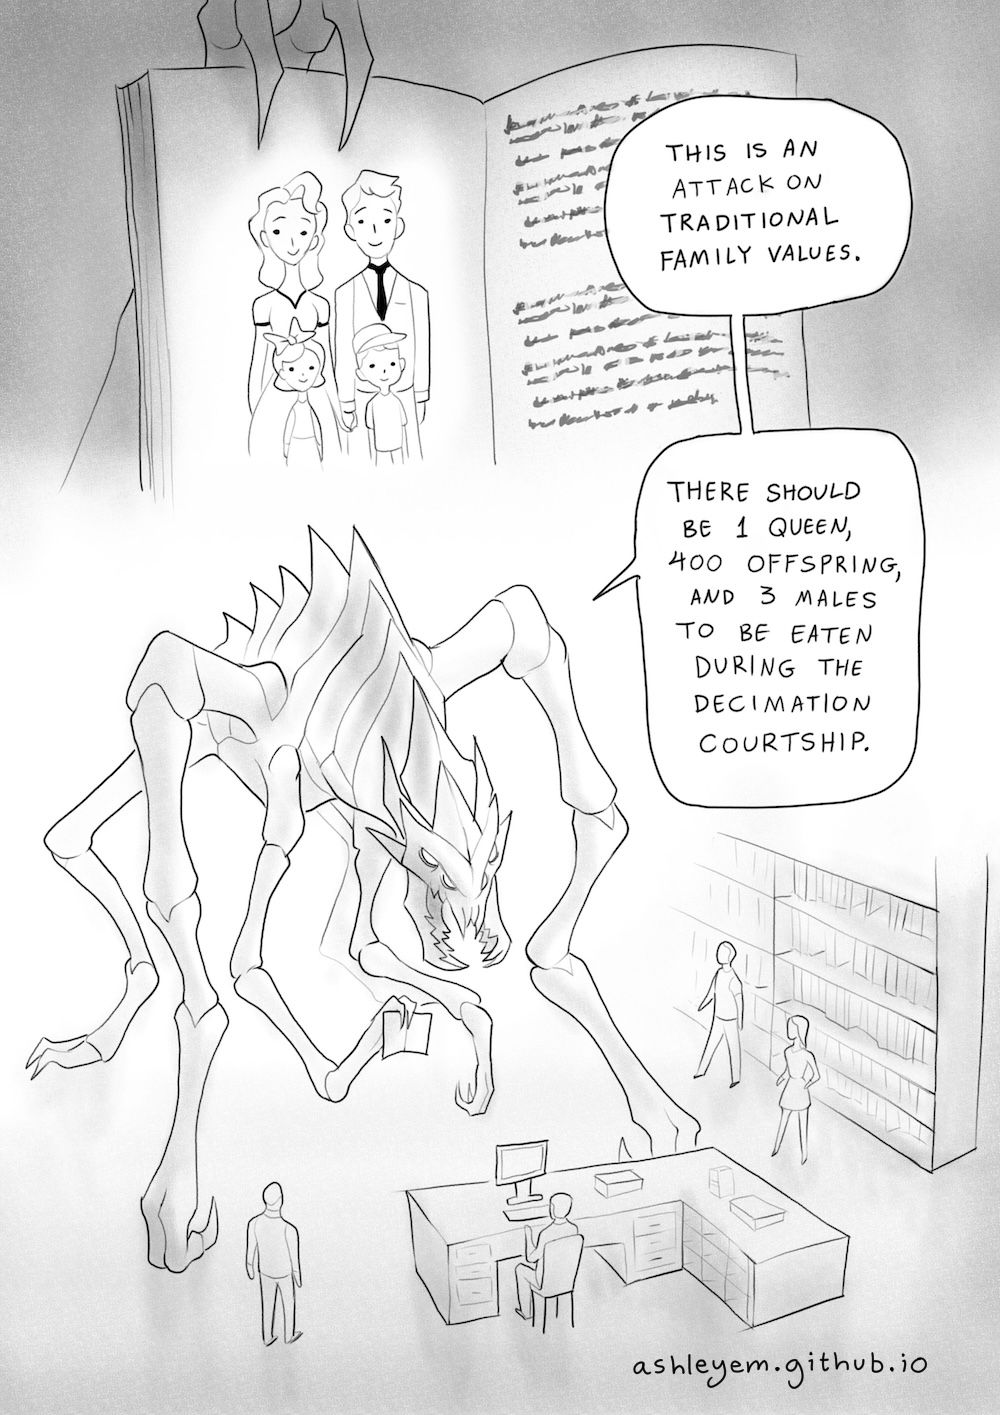
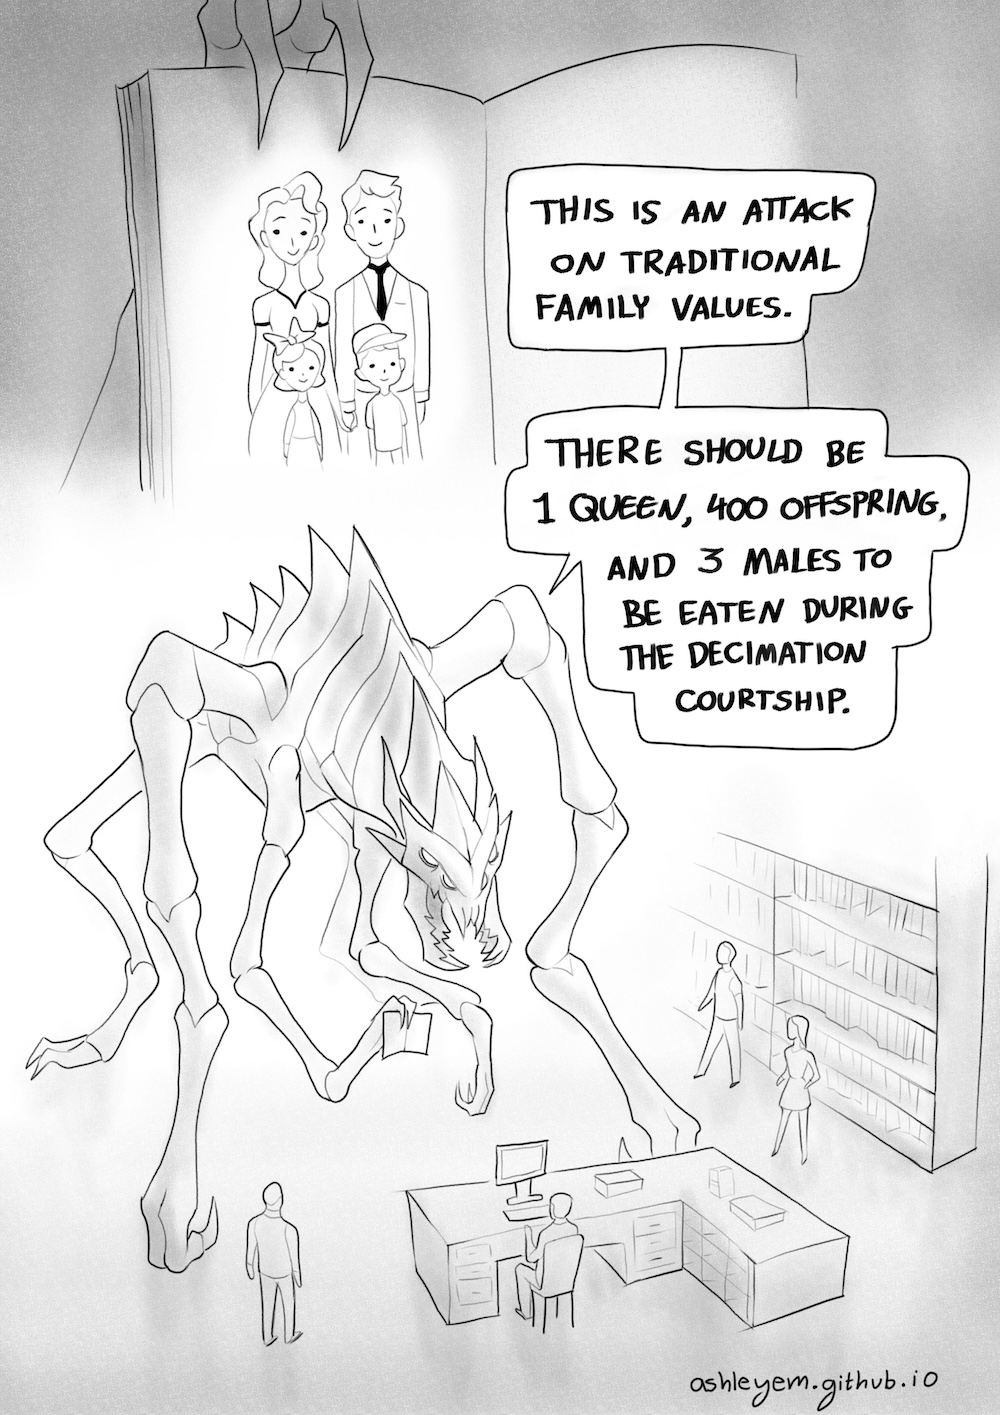
added new comic and updated existing one

Changed region(s): [[0.496, 0.0622, 0.992, 0.5597], [0.682, 0.964, 0.93, 1.0]]

diff --git a/comics/comics.html b/comics/comics.html
@@ -59,6 +59,15 @@
 
 <table id="gallery">
     <tr>
+        </td>
+              <td>
+            <a href="view_comic.html" onclick="view_comic('Lucy\'s Friend', 'lucys_friend.jpg')">
+                <div class="gallery-item">
+                    <img src="t_lucys_friend.jpg">
+                    <p>Lucy's Friend</p>
+                </div>
+            </a>
+        </td>
         <td>
             <a href="view_comic.html" onclick="view_comic('Traditional Family Values', 'traditional_family_values.jpg')">
                 <div class="gallery-item">
@@ -74,7 +83,6 @@
                     <p>Perspective</p>
                 </div>
             </a>
-        </td>
     </tr>
 </table>
 
